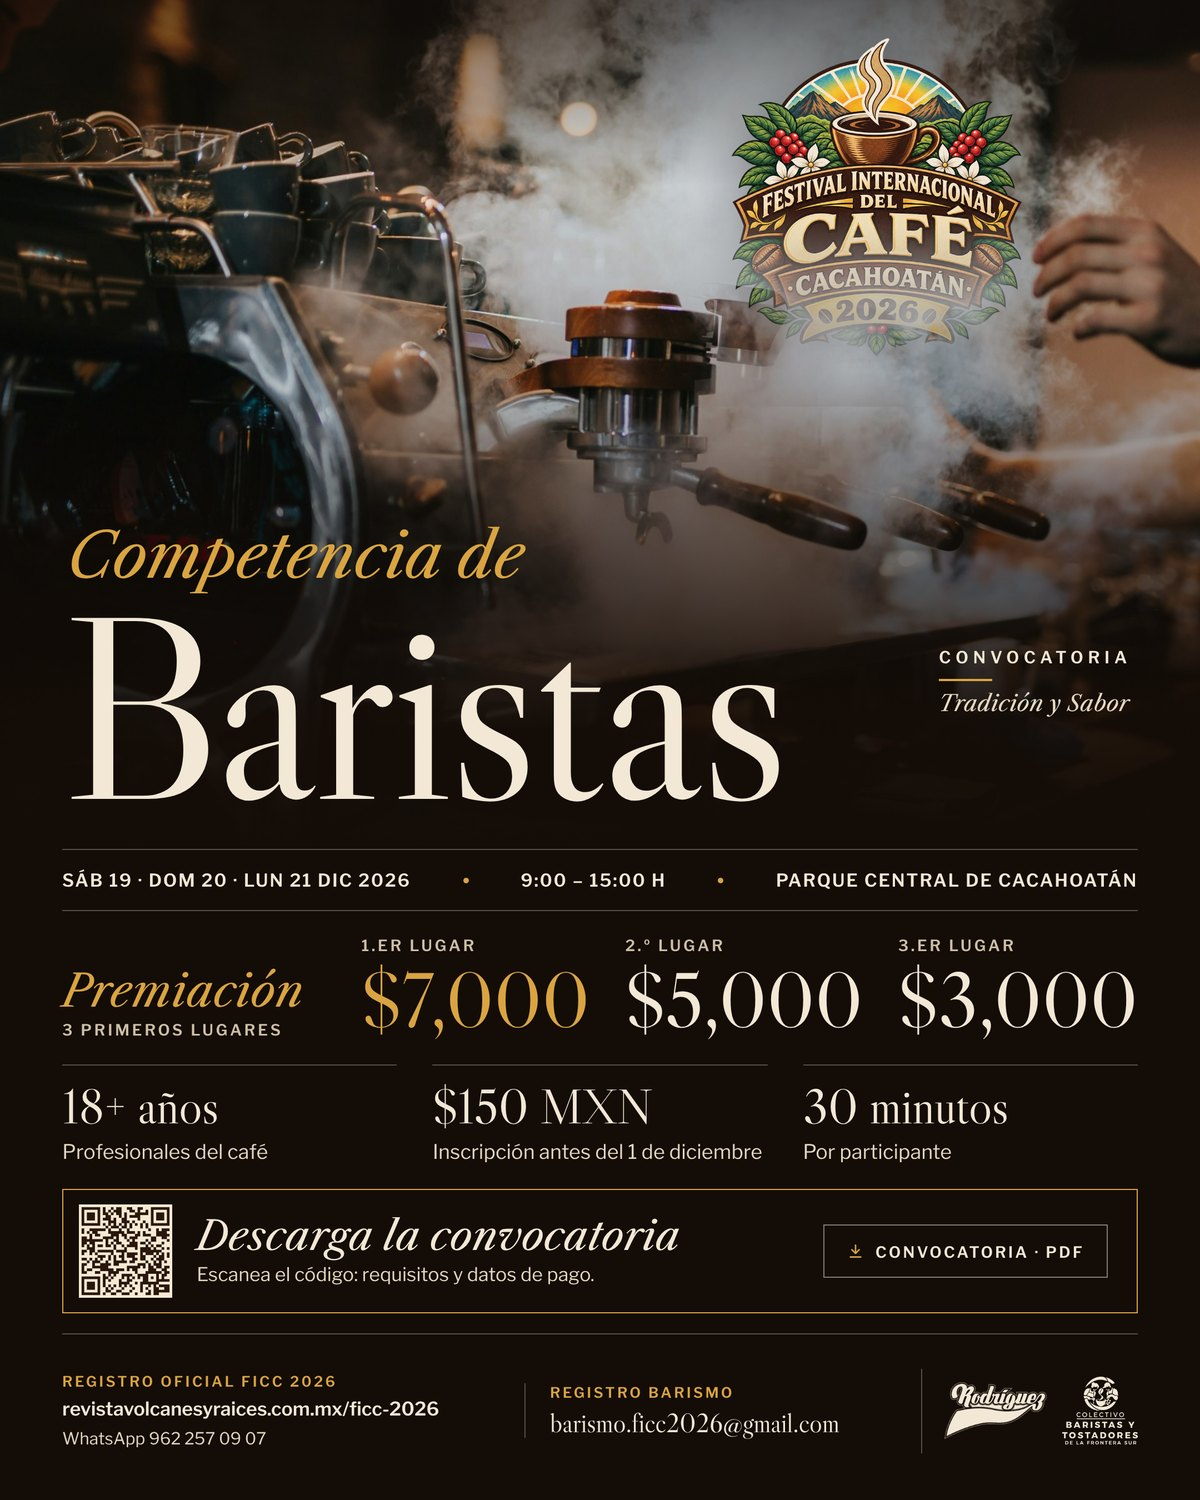
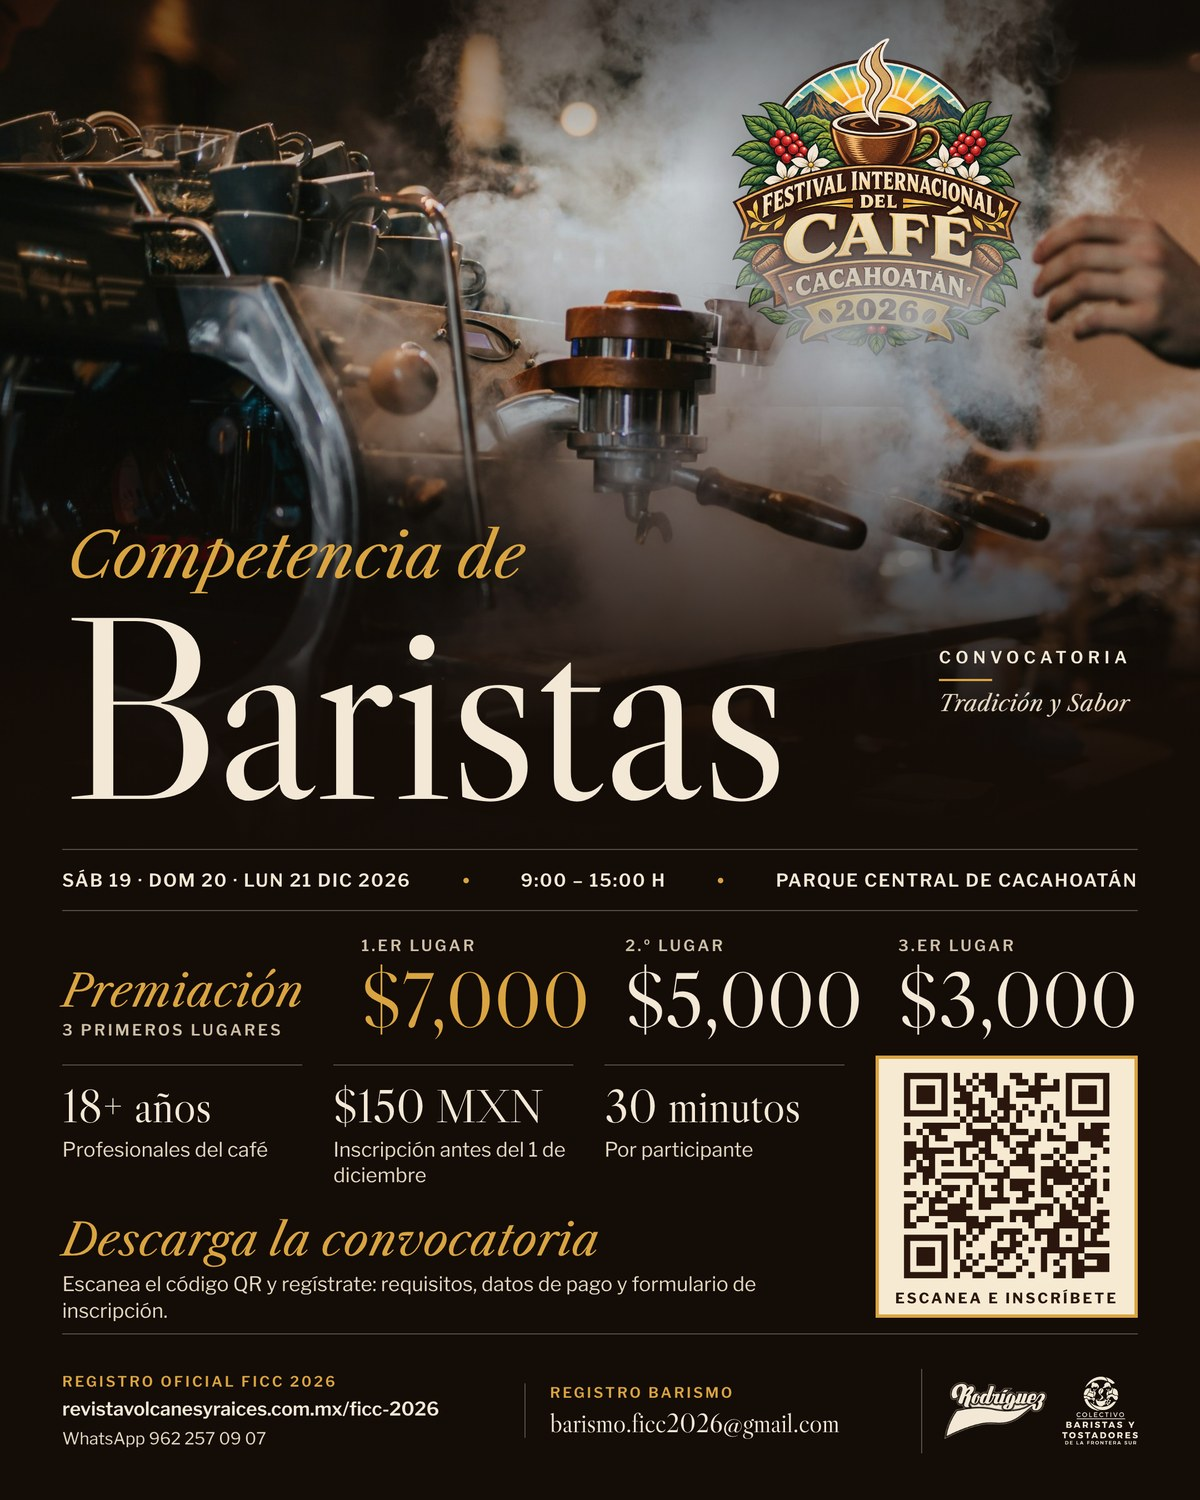
Barismo: cartel con QR grande

Changed region(s): [[0.0308, 0.7053, 0.9558, 0.8893]]

diff --git a/ficc-2026.html b/ficc-2026.html
@@ -496,8 +496,8 @@
             <a class="ajz-link" href="https://wa.me/529622570907" target="_blank" rel="noopener">Informes por WhatsApp: 962 257 09 07</a>
           </div>
         </div>
-        <a class="ajz-poster" href="/assets/ficc/baristas.jpg" data-lightbox data-caption="Competencia de Baristas · FICC 2026">
-          <img src="/assets/ficc/baristas.jpg" width="1200" height="1500" loading="lazy" alt="Cartel de la Competencia de Baristas del FICC 2026: 19, 20 y 21 de diciembre de 9:00 a 15:00 horas en el Parque Central de Cacahoatán. Premios de 7,000, 5,000 y 3,000 pesos. Para mayores de 18 años, inscripción de 150 pesos antes del 1 de diciembre.">
+        <a class="ajz-poster" href="/assets/ficc/baristas.jpg?v=2" data-lightbox data-caption="Competencia de Baristas · FICC 2026">
+          <img src="/assets/ficc/baristas.jpg?v=2" width="1200" height="1500" loading="lazy" alt="Cartel de la Competencia de Baristas del FICC 2026: 19, 20 y 21 de diciembre de 9:00 a 15:00 horas en el Parque Central de Cacahoatán. Premios de 7,000, 5,000 y 3,000 pesos. Para mayores de 18 años, inscripción de 150 pesos antes del 1 de diciembre.">
         </a>
       </div>
 
@@ -734,8 +734,8 @@
         </article>
 
         <article class="cv-item" data-reveal>
-          <a class="cv-poster" href="/assets/ficc/baristas.jpg" data-lightbox data-caption="Competencia de Baristas · FICC 2026">
-            <img src="/assets/ficc/baristas.jpg" width="1200" height="1500" loading="lazy" alt="Cartel de la Competencia de Baristas: 19, 20 y 21 de diciembre en el Parque Central de Cacahoatán, premios de 7,000, 5,000 y 3,000 pesos, inscripción de 150 pesos antes del 1 de diciembre.">
+          <a class="cv-poster" href="/assets/ficc/baristas.jpg?v=2" data-lightbox data-caption="Competencia de Baristas · FICC 2026">
+            <img src="/assets/ficc/baristas.jpg?v=2" width="1200" height="1500" loading="lazy" alt="Cartel de la Competencia de Baristas: 19, 20 y 21 de diciembre en el Parque Central de Cacahoatán, premios de 7,000, 5,000 y 3,000 pesos, inscripción de 150 pesos antes del 1 de diciembre.">
           </a>
           <div class="cv-body">
             <p class="cv-kicker"><span class="cv-num">02</span>Competencia</p>
